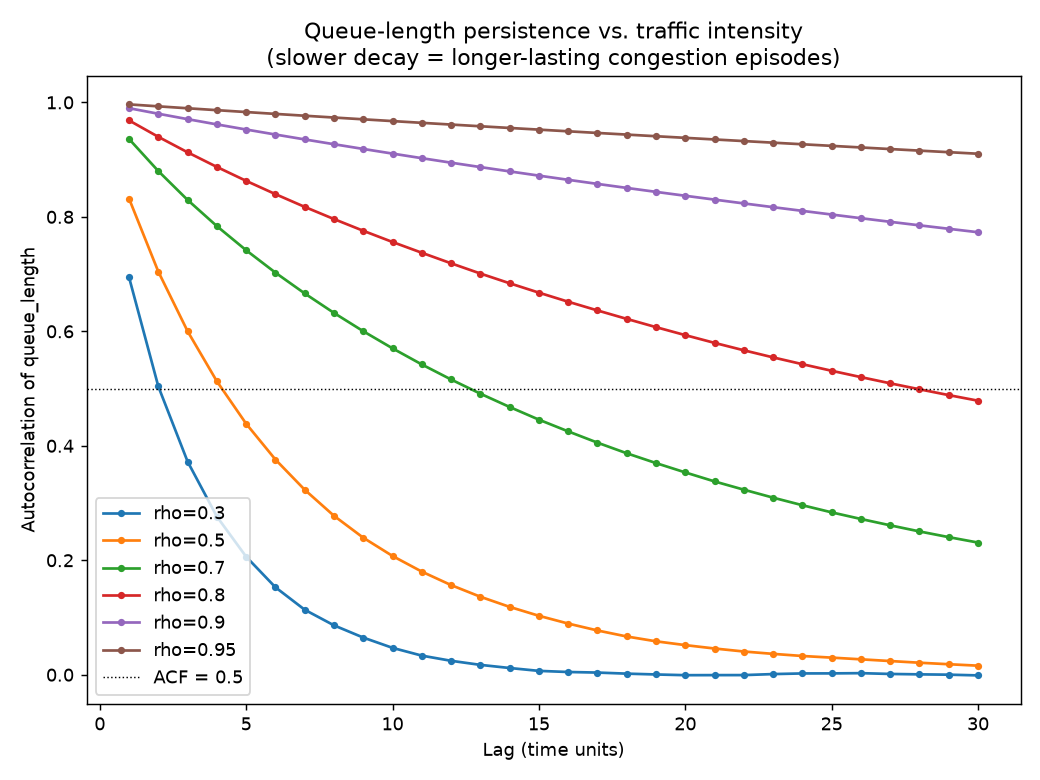
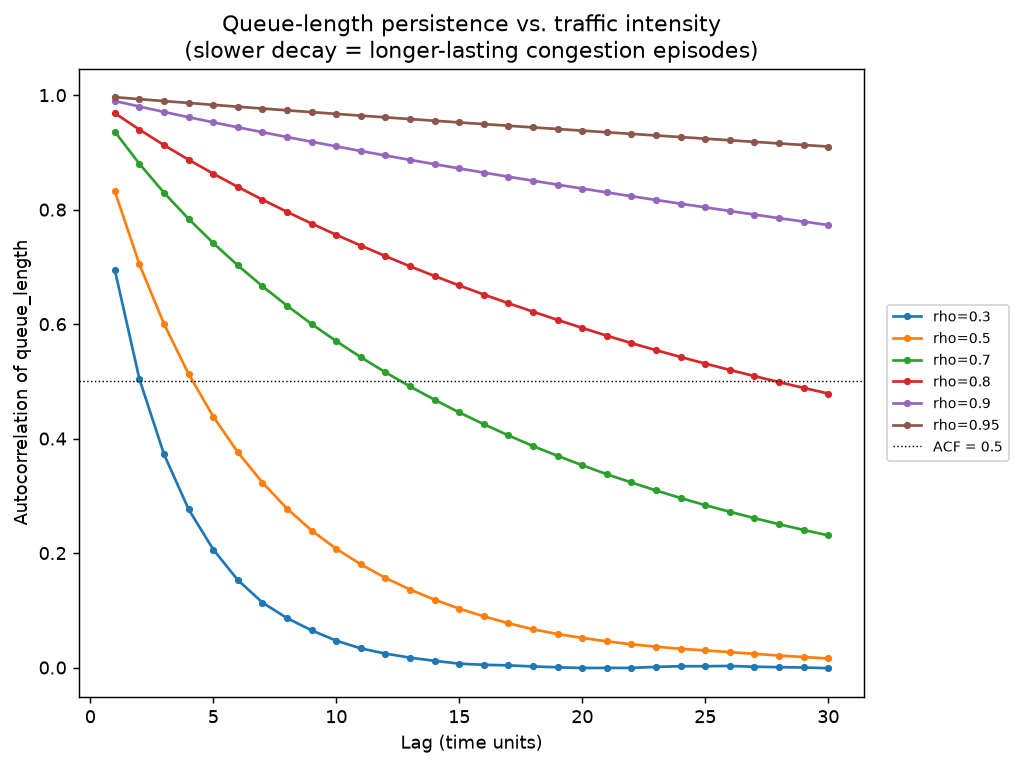
Fix autocorrelation plot legends, add M/G/1 feature comparison

diff --git a/modeling/mg1_extra_summaries.py b/modeling/mg1_extra_summaries.py
@@ -1,0 +1,37 @@
+"""
+Rich vs history-only feature sets for the M/G/1 results (reads the CSV already
+produced by train_mg1_baseline_models.py; trains nothing, runs in seconds).
+
+    difference = 1 - MAE_rich / MAE_history     (positive = rich features better)
+
+Usage:  python modeling/mg1_extra_summaries.py
+Writes: results/mg1_feature_set_comparison.csv
+"""
+from pathlib import Path
+import pandas as pd
+
+RESULTS = Path(__file__).resolve().parent.parent / "results"
+reg = pd.read_csv(RESULTS / "mg1_model_comparison_regression.csv")
+reg = reg[reg["test_run_id"].astype(str) == "ALL_MEAN"]
+
+key = ["weibull_shape", "rho", "horizon", "model"]
+h = reg[reg.dataset == "history_only"][key + ["MAE"]].rename(columns={"MAE": "MAE_history"})
+r = reg[reg.dataset == "rich_features"][key + ["MAE"]].rename(columns={"MAE": "MAE_rich"})
+cmp_ = h.merge(r, on=key)
+cmp_["rich_improvement"] = 1 - cmp_["MAE_rich"] / cmp_["MAE_history"]
+cmp_.to_csv(RESULTS / "mg1_feature_set_comparison.csv", index=False)
+
+pd.set_option("display.width", 200)
+print("=" * 90)
+print("M/G/1: RICH vs HISTORY-ONLY, regression MAE (positive = rich features better)")
+print("=" * 90)
+for shape in sorted(cmp_.weibull_shape.unique(), reverse=True):
+    sub = cmp_[(cmp_.weibull_shape == shape) & (cmp_.model == "Random Forest")]
+    pv = sub.pivot(index="rho", columns="horizon", values="rich_improvement")
+    pv = pv[[c for c in ["short", "medium", "extra_long", "long"] if c in pv.columns]]
+    print(f"\nWeibull shape {shape}, Random Forest:")
+    print((pv * 100).round(2).astype(str).add("%").to_string())
+print("\nMean over rho and horizon, by shape and model:")
+print((cmp_.groupby(["weibull_shape", "model"])["rich_improvement"].mean() * 100)
+      .round(2).astype(str).add("%").to_string())
+print("\nSaved: results/mg1_feature_set_comparison.csv")

diff --git a/modeling/mph1_autocorrelation_analysis.py b/modeling/mph1_autocorrelation_analysis.py
@@ -94,9 +94,9 @@ def compute_all():
     ax.set_xlabel("Lag (time units)")
     ax.set_ylabel("Autocorrelation of queue_length")
     ax.set_title("M/PH/1 (Erlang-2) queue-length persistence vs. traffic intensity")
-    ax.legend(fontsize=8)
+    ax.legend(fontsize=8, loc="center left", bbox_to_anchor=(1.02, 0.5))
     fig.tight_layout()
-    fig.savefig(PLOTS_DIR / "mph1_autocorrelation_by_rho.png", dpi=130)
+    fig.savefig(PLOTS_DIR / "mph1_autocorrelation_by_rho.png", dpi=130, bbox_inches="tight")
     plt.close(fig)
     print("Saved: results/plots/mph1_autocorrelation_by_rho.png")
 

diff --git a/modeling/autocorrelation_analysis.py b/modeling/autocorrelation_analysis.py
@@ -106,9 +106,9 @@ def compute_all():
     ax.set_ylabel("Autocorrelation of queue_length")
     ax.set_title("Queue-length persistence vs. traffic intensity\n"
                  "(slower decay = longer-lasting congestion episodes)")
-    ax.legend()
+    ax.legend(fontsize=8, loc="center left", bbox_to_anchor=(1.02, 0.5))
     fig.tight_layout()
-    fig.savefig(PLOTS_DIR / "autocorrelation_by_rho.png", dpi=130)
+    fig.savefig(PLOTS_DIR / "autocorrelation_by_rho.png", dpi=130, bbox_inches="tight")
     plt.close(fig)
     print("Saved: results/plots/autocorrelation_by_rho.png")
 
